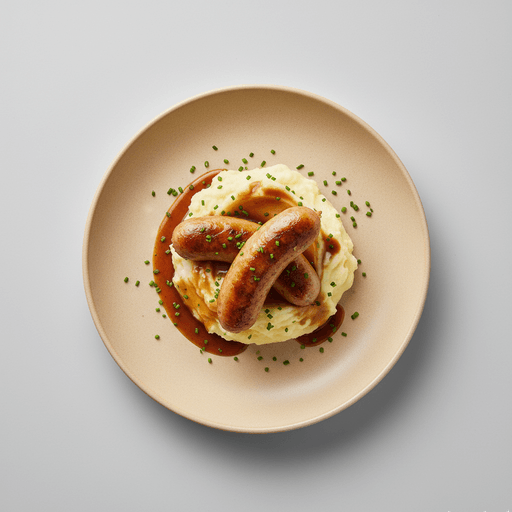
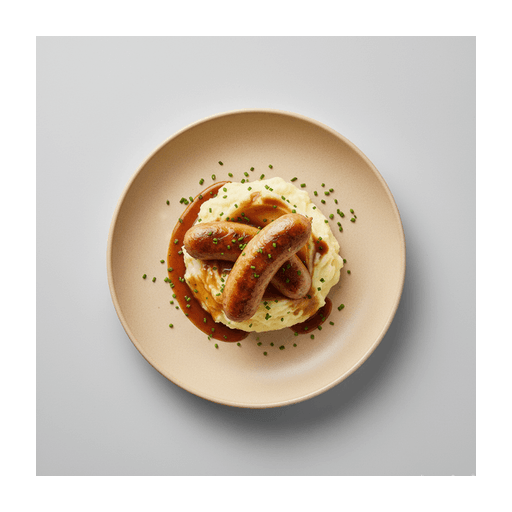
Chore: Standardize plate sizes across all food images to be perfectly uniform

diff --git a/fix-image-sizes.js b/fix-image-sizes.js
@@ -1,0 +1,56 @@
+const sharp = require('sharp');
+const fs = require('fs');
+const path = require('path');
+
+const IMAGES_NOBG_DIR = path.join(__dirname, 'public', 'images_nobg');
+const DAYS = ['monday', 'tuesday', 'wednesday', 'thursday', 'friday'];
+
+async function standardizeImage(inputPath, outputPath) {
+    try {
+        console.log(`Processing: ${inputPath}`);
+        
+        // Trim transparent pixels and resize the non-transparent part (the plate) to exactly 440x440
+        const trimmedBuffer = await sharp(inputPath)
+            .trim() 
+            .resize(440, 440, { fit: 'inside' })
+            .toBuffer();
+
+        // Place the standardized plate onto a 512x512 transparent canvas
+        await sharp({
+            create: {
+                width: 512,
+                height: 512,
+                channels: 4,
+                background: { r: 0, g: 0, b: 0, alpha: 0 }
+            }
+        })
+        .composite([{ input: trimmedBuffer, gravity: 'center' }])
+        .png({ compressionLevel: 9, palette: true })
+        .toFile(outputPath);
+
+        console.log(`  ✅ Standardized: ${outputPath}`);
+    } catch (err) {
+        console.error(`  ❌ Failed: ${err.message}`);
+    }
+}
+
+async function main() {
+    for (const day of DAYS) {
+        const dayDir = path.join(IMAGES_NOBG_DIR, day);
+        if (!fs.existsSync(dayDir)) continue;
+
+        const files = fs.readdirSync(dayDir).filter(f => f.endsWith('.png'));
+        for (const file of files) {
+            const filePath = path.join(dayDir, file);
+            // Process the image in place (or you can write to a tmp file and replace)
+            const tmpPath = filePath + '.tmp.png';
+            await standardizeImage(filePath, tmpPath);
+            if (fs.existsSync(tmpPath)) {
+                fs.renameSync(tmpPath, filePath);
+            }
+        }
+    }
+    console.log("All existing images have been standardized.");
+}
+
+main();

diff --git a/smart-update.js b/smart-update.js
@@ -226,11 +226,23 @@ async function removeBgSingle(canteenName, day) {
             if (isBg[i]) data[i * channels + 3] = 0;
         }
 
-        // Save resized + compressed
-        await sharp(data, { raw: { width, height, channels } })
-            .resize(512, 512, { fit: 'contain', background: { r: 0, g: 0, b: 0, alpha: 0 } })
-            .png({ compressionLevel: 9, palette: true })
-            .toFile(outputPath);
+        // Standardize plate size: trim transparency, scale precisely, and compose onto 512x512 canvas
+        const trimmedBuffer = await sharp(data, { raw: { width, height, channels } })
+            .trim()
+            .resize(440, 440, { fit: 'inside' })
+            .toBuffer();
+
+        await sharp({
+            create: {
+                width: 512,
+                height: 512,
+                channels: 4,
+                background: { r: 0, g: 0, b: 0, alpha: 0 }
+            }
+        })
+        .composite([{ input: trimmedBuffer, gravity: 'center' }])
+        .png({ compressionLevel: 9, palette: true })
+        .toFile(outputPath);
 
         return true;
     } catch (error) {
